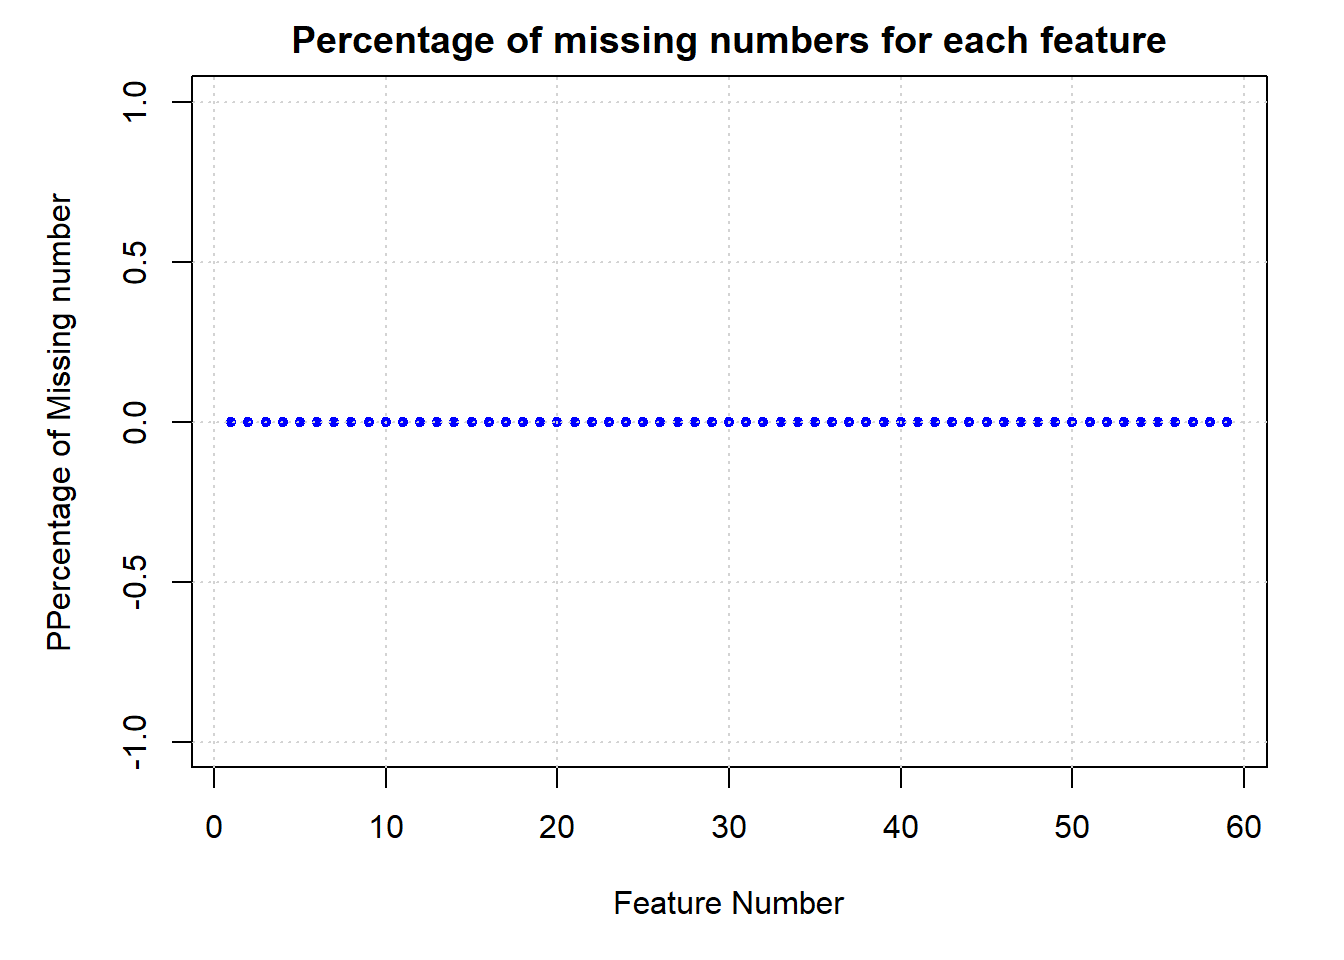
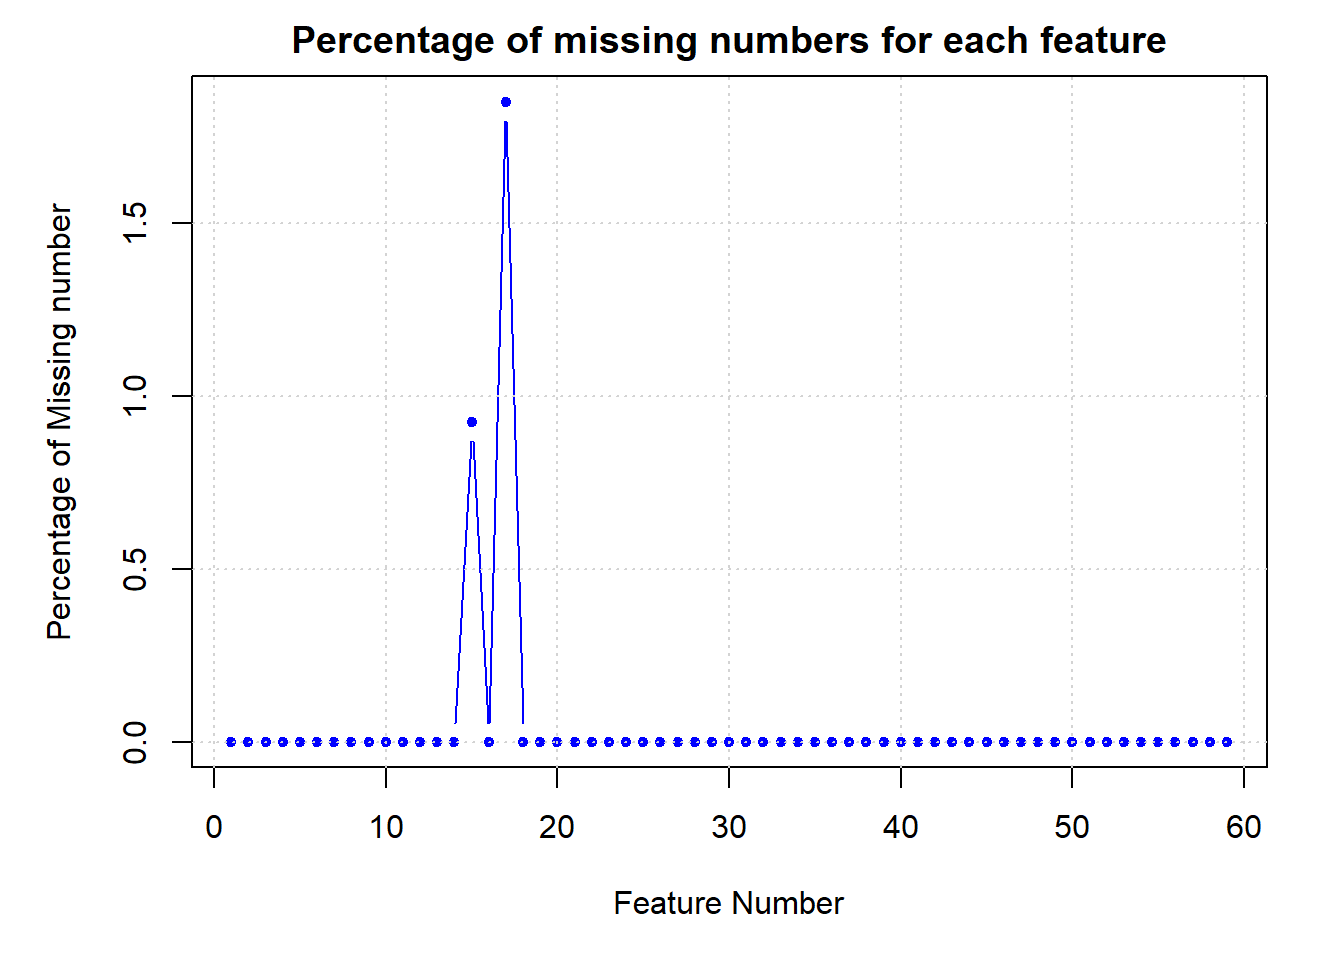
commit graph changes

diff --git a/docs/data.html b/docs/data.html
@@ -213,7 +213,7 @@ pre > code.sourceCode > span > a:first-child::before { text-decoration: underlin
 <div class="cell">
 <details>
 <summary>Code</summary>
-<div class="sourceCode cell-code" id="cb1"><pre class="sourceCode r code-with-copy"><code class="sourceCode r"><span id="cb1-1"><a href="#cb1-1" aria-hidden="true" tabindex="-1"></a><span class="co"># Install and load necessary libraries (if not installed)</span></span>
+<div class="sourceCode cell-code" id="cb1"><pre class="sourceCode r code-with-copy"><code class="sourceCode r"><span id="cb1-1"><a href="#cb1-1" aria-hidden="true" tabindex="-1"></a><span class="co">#Install and load necessary libraries (if not installed)</span></span>
 <span id="cb1-2"><a href="#cb1-2" aria-hidden="true" tabindex="-1"></a><span class="co"># install.packages("VIM")</span></span>
 <span id="cb1-3"><a href="#cb1-3" aria-hidden="true" tabindex="-1"></a><span class="fu">library</span>(VIM)</span></code><button title="Copy to Clipboard" class="code-copy-button"><i class="bi"></i></button></pre></div>
 </details>
@@ -240,67 +240,99 @@ Attaching package: 'VIM'</code></pre>
 </div>
 <details>
 <summary>Code</summary>
-<div class="sourceCode cell-code" id="cb8"><pre class="sourceCode r code-with-copy"><code class="sourceCode r"><span id="cb8-1"><a href="#cb8-1" aria-hidden="true" tabindex="-1"></a><span class="fu">library</span>(openxlsx)  </span>
-<span id="cb8-2"><a href="#cb8-2" aria-hidden="true" tabindex="-1"></a><span class="co"># Read Excel file</span></span>
-<span id="cb8-3"><a href="#cb8-3" aria-hidden="true" tabindex="-1"></a>data <span class="ot">&lt;-</span> <span class="fu">read.csv</span>(<span class="st">'./data/GYTS4.csv'</span>)</span>
-<span id="cb8-4"><a href="#cb8-4" aria-hidden="true" tabindex="-1"></a></span>
-<span id="cb8-5"><a href="#cb8-5" aria-hidden="true" tabindex="-1"></a><span class="co"># Replace "--" with NA in numeric columns</span></span>
-<span id="cb8-6"><a href="#cb8-6" aria-hidden="true" tabindex="-1"></a>numeric_columns <span class="ot">&lt;-</span> <span class="fu">sapply</span>(data, is.numeric)</span>
-<span id="cb8-7"><a href="#cb8-7" aria-hidden="true" tabindex="-1"></a>data[, numeric_columns <span class="sc">==</span> <span class="st">"--"</span> ]<span class="ot">&lt;-</span> <span class="cn">NA</span></span>
-<span id="cb8-8"><a href="#cb8-8" aria-hidden="true" tabindex="-1"></a></span>
-<span id="cb8-9"><a href="#cb8-9" aria-hidden="true" tabindex="-1"></a><span class="co"># Calculate the percentage of missing values in each variable</span></span>
-<span id="cb8-10"><a href="#cb8-10" aria-hidden="true" tabindex="-1"></a>missing_proportion <span class="ot">&lt;-</span> <span class="fu">colMeans</span>(<span class="fu">is.na</span>(data) <span class="sc">*</span> <span class="dv">100</span>)</span>
-<span id="cb8-11"><a href="#cb8-11" aria-hidden="true" tabindex="-1"></a></span>
-<span id="cb8-12"><a href="#cb8-12" aria-hidden="true" tabindex="-1"></a><span class="co"># Set graphical parameters for larger plot</span></span>
-<span id="cb8-13"><a href="#cb8-13" aria-hidden="true" tabindex="-1"></a><span class="fu">par</span>(<span class="at">mfrow =</span> <span class="fu">c</span>(<span class="dv">1</span>, <span class="dv">1</span>), <span class="at">mar =</span> <span class="fu">c</span>(<span class="dv">5</span>, <span class="dv">5</span>, <span class="dv">2</span>, <span class="dv">2</span>)) </span>
-<span id="cb8-14"><a href="#cb8-14" aria-hidden="true" tabindex="-1"></a></span>
-<span id="cb8-15"><a href="#cb8-15" aria-hidden="true" tabindex="-1"></a><span class="co"># Plot line graph with fewer x-axis ticks</span></span>
-<span id="cb8-16"><a href="#cb8-16" aria-hidden="true" tabindex="-1"></a><span class="fu">plot</span>(missing_proportion, <span class="at">type =</span> <span class="st">"b"</span>, <span class="at">pch =</span> <span class="dv">20</span>,</span>
-<span id="cb8-17"><a href="#cb8-17" aria-hidden="true" tabindex="-1"></a>     <span class="at">main =</span> <span class="st">"Percentage of missing numbers for each feature"</span>,</span>
-<span id="cb8-18"><a href="#cb8-18" aria-hidden="true" tabindex="-1"></a>     <span class="at">xlab =</span> <span class="st">"Feature Number"</span>,</span>
-<span id="cb8-19"><a href="#cb8-19" aria-hidden="true" tabindex="-1"></a>     <span class="at">ylab =</span> <span class="st">"PPercentage of Missing number"</span>,</span>
-<span id="cb8-20"><a href="#cb8-20" aria-hidden="true" tabindex="-1"></a>     <span class="at">col =</span> <span class="st">"blue"</span>)</span>
-<span id="cb8-21"><a href="#cb8-21" aria-hidden="true" tabindex="-1"></a><span class="co"># Add grid lines</span></span>
-<span id="cb8-22"><a href="#cb8-22" aria-hidden="true" tabindex="-1"></a><span class="fu">grid</span>()</span></code><button title="Copy to Clipboard" class="code-copy-button"><i class="bi"></i></button></pre></div>
+<div class="sourceCode cell-code" id="cb8"><pre class="sourceCode r code-with-copy"><code class="sourceCode r"><span id="cb8-1"><a href="#cb8-1" aria-hidden="true" tabindex="-1"></a><span class="fu">options</span>(<span class="at">repos =</span> <span class="fu">c</span>(<span class="at">CRAN =</span> <span class="st">"https://cloud.r-project.org"</span>))</span>
+<span id="cb8-2"><a href="#cb8-2" aria-hidden="true" tabindex="-1"></a><span class="fu">install.packages</span>(<span class="st">"openxlsx"</span>)</span></code><button title="Copy to Clipboard" class="code-copy-button"><i class="bi"></i></button></pre></div>
+</details>
+<div class="cell-output cell-output-stderr">
+<pre><code>Installing package into 'C:/Users/Ishita Pundir/Documents/R/win-library/4.1'
+(as 'lib' is unspecified)</code></pre>
+</div>
+<div class="cell-output cell-output-stdout">
+<pre><code>package 'openxlsx' successfully unpacked and MD5 sums checked</code></pre>
+</div>
+<div class="cell-output cell-output-stderr">
+<pre><code>Warning: cannot remove prior installation of package 'openxlsx'</code></pre>
+</div>
+<div class="cell-output cell-output-stderr">
+<pre><code>Warning in file.copy(savedcopy, lib, recursive = TRUE): problem copying
+C:\Users\Ishita
+Pundir\Documents\R\win-library\4.1\00LOCK\openxlsx\libs\x64\openxlsx.dll to
+C:\Users\Ishita
+Pundir\Documents\R\win-library\4.1\openxlsx\libs\x64\openxlsx.dll: Permission
+denied</code></pre>
+</div>
+<div class="cell-output cell-output-stderr">
+<pre><code>Warning: restored 'openxlsx'</code></pre>
+</div>
+<div class="cell-output cell-output-stdout">
+<pre><code>
+The downloaded binary packages are in
+    C:\Temp\Rtmp6HOVl6\downloaded_packages</code></pre>
+</div>
+<details>
+<summary>Code</summary>
+<div class="sourceCode cell-code" id="cb15"><pre class="sourceCode r code-with-copy"><code class="sourceCode r"><span id="cb15-1"><a href="#cb15-1" aria-hidden="true" tabindex="-1"></a><span class="fu">library</span>(openxlsx)  </span>
+<span id="cb15-2"><a href="#cb15-2" aria-hidden="true" tabindex="-1"></a></span>
+<span id="cb15-3"><a href="#cb15-3" aria-hidden="true" tabindex="-1"></a><span class="co"># Read Excel file</span></span>
+<span id="cb15-4"><a href="#cb15-4" aria-hidden="true" tabindex="-1"></a>data <span class="ot">&lt;-</span> <span class="fu">read.xlsx</span>(<span class="st">'./data/EDAV.xlsx'</span>)</span>
+<span id="cb15-5"><a href="#cb15-5" aria-hidden="true" tabindex="-1"></a></span>
+<span id="cb15-6"><a href="#cb15-6" aria-hidden="true" tabindex="-1"></a><span class="co"># Replace "--" with NA in numeric columns</span></span>
+<span id="cb15-7"><a href="#cb15-7" aria-hidden="true" tabindex="-1"></a>numeric_columns <span class="ot">&lt;-</span> <span class="fu">sapply</span>(data, is.numeric)</span>
+<span id="cb15-8"><a href="#cb15-8" aria-hidden="true" tabindex="-1"></a>data[, numeric_columns <span class="sc">==</span> <span class="st">"--"</span> ]<span class="ot">&lt;-</span> <span class="cn">NA</span></span>
+<span id="cb15-9"><a href="#cb15-9" aria-hidden="true" tabindex="-1"></a></span>
+<span id="cb15-10"><a href="#cb15-10" aria-hidden="true" tabindex="-1"></a><span class="co"># Calculate the percentage of missing values in each variable</span></span>
+<span id="cb15-11"><a href="#cb15-11" aria-hidden="true" tabindex="-1"></a>missing_proportion <span class="ot">&lt;-</span> <span class="fu">colMeans</span>(<span class="fu">is.na</span>(data) <span class="sc">*</span> <span class="dv">100</span>)</span>
+<span id="cb15-12"><a href="#cb15-12" aria-hidden="true" tabindex="-1"></a></span>
+<span id="cb15-13"><a href="#cb15-13" aria-hidden="true" tabindex="-1"></a><span class="co"># Set graphical parameters for larger plot</span></span>
+<span id="cb15-14"><a href="#cb15-14" aria-hidden="true" tabindex="-1"></a><span class="fu">par</span>(<span class="at">mfrow =</span> <span class="fu">c</span>(<span class="dv">1</span>, <span class="dv">1</span>), <span class="at">mar =</span> <span class="fu">c</span>(<span class="dv">5</span>, <span class="dv">5</span>, <span class="dv">2</span>, <span class="dv">2</span>))</span>
+<span id="cb15-15"><a href="#cb15-15" aria-hidden="true" tabindex="-1"></a></span>
+<span id="cb15-16"><a href="#cb15-16" aria-hidden="true" tabindex="-1"></a><span class="co"># Plot line graph with fewer x-axis ticks</span></span>
+<span id="cb15-17"><a href="#cb15-17" aria-hidden="true" tabindex="-1"></a><span class="fu">plot</span>(missing_proportion, <span class="at">type =</span> <span class="st">"b"</span>, <span class="at">pch =</span> <span class="dv">20</span>,</span>
+<span id="cb15-18"><a href="#cb15-18" aria-hidden="true" tabindex="-1"></a>     <span class="at">main =</span> <span class="st">"Percentage of missing numbers for each feature"</span>,</span>
+<span id="cb15-19"><a href="#cb15-19" aria-hidden="true" tabindex="-1"></a>     <span class="at">xlab =</span> <span class="st">"Feature Number"</span>,</span>
+<span id="cb15-20"><a href="#cb15-20" aria-hidden="true" tabindex="-1"></a>     <span class="at">ylab =</span> <span class="st">"Percentage of Missing number"</span>,</span>
+<span id="cb15-21"><a href="#cb15-21" aria-hidden="true" tabindex="-1"></a>     <span class="at">col =</span> <span class="st">"blue"</span>)</span>
+<span id="cb15-22"><a href="#cb15-22" aria-hidden="true" tabindex="-1"></a><span class="co"># Add grid lines</span></span>
+<span id="cb15-23"><a href="#cb15-23" aria-hidden="true" tabindex="-1"></a><span class="fu">grid</span>()</span></code><button title="Copy to Clipboard" class="code-copy-button"><i class="bi"></i></button></pre></div>
 </details>
 <div class="cell-output-display">
 <p><img src="data_files/figure-html/unnamed-chunk-1-1.png" class="img-fluid" width="672"></p>
 </div>
+</div>
+<div class="cell">
 <details>
 <summary>Code</summary>
-<div class="sourceCode cell-code" id="cb9"><pre class="sourceCode r code-with-copy"><code class="sourceCode r"><span id="cb9-1"><a href="#cb9-1" aria-hidden="true" tabindex="-1"></a><span class="fu">library</span>(redav)</span>
-<span id="cb9-2"><a href="#cb9-2" aria-hidden="true" tabindex="-1"></a><span class="fu">library</span>(ggplot2)</span>
-<span id="cb9-3"><a href="#cb9-3" aria-hidden="true" tabindex="-1"></a><span class="fu">library</span>(tidyverse)</span></code><button title="Copy to Clipboard" class="code-copy-button"><i class="bi"></i></button></pre></div>
+<div class="sourceCode cell-code" id="cb16"><pre class="sourceCode r code-with-copy"><code class="sourceCode r"><span id="cb16-1"><a href="#cb16-1" aria-hidden="true" tabindex="-1"></a><span class="fu">library</span>(redav)</span>
+<span id="cb16-2"><a href="#cb16-2" aria-hidden="true" tabindex="-1"></a><span class="fu">library</span>(ggplot2)</span>
+<span id="cb16-3"><a href="#cb16-3" aria-hidden="true" tabindex="-1"></a><span class="fu">library</span>(tidyverse)</span></code><button title="Copy to Clipboard" class="code-copy-button"><i class="bi"></i></button></pre></div>
 </details>
 <div class="cell-output cell-output-stderr">
 <pre><code>-- Attaching core tidyverse packages ------------------------ tidyverse 2.0.0 --
 v dplyr     1.1.2     v readr     2.1.4
 v forcats   1.0.0     v stringr   1.5.0
 v lubridate 1.9.2     v tibble    3.2.1
-v purrr     1.0.1     v tidyr     1.3.0</code></pre>
-</div>
-<div class="cell-output cell-output-stderr">
-<pre><code>-- Conflicts ------------------------------------------ tidyverse_conflicts() --
+v purrr     1.0.1     v tidyr     1.3.0
+-- Conflicts ------------------------------------------ tidyverse_conflicts() --
 x dplyr::filter() masks stats::filter()
 x dplyr::lag()    masks stats::lag()
 i Use the conflicted package (&lt;http://conflicted.r-lib.org/&gt;) to force all conflicts to become errors</code></pre>
 </div>
 <details>
 <summary>Code</summary>
-<div class="sourceCode cell-code" id="cb12"><pre class="sourceCode r code-with-copy"><code class="sourceCode r"><span id="cb12-1"><a href="#cb12-1" aria-hidden="true" tabindex="-1"></a>tidycars <span class="ot">&lt;-</span> data <span class="sc">%&gt;%</span> </span>
-<span id="cb12-2"><a href="#cb12-2" aria-hidden="true" tabindex="-1"></a>  <span class="fu">rownames_to_column</span>(<span class="st">"id"</span>) <span class="sc">%&gt;%</span> </span>
-<span id="cb12-3"><a href="#cb12-3" aria-hidden="true" tabindex="-1"></a>  <span class="fu">gather</span>(key, value, <span class="sc">-</span>id) <span class="sc">%&gt;%</span> </span>
-<span id="cb12-4"><a href="#cb12-4" aria-hidden="true" tabindex="-1"></a>  <span class="fu">mutate</span>(<span class="at">missing =</span> <span class="fu">ifelse</span>(<span class="fu">is.na</span>(value), <span class="st">"yes"</span>, <span class="st">"no"</span>))</span>
-<span id="cb12-5"><a href="#cb12-5" aria-hidden="true" tabindex="-1"></a></span>
-<span id="cb12-6"><a href="#cb12-6" aria-hidden="true" tabindex="-1"></a><span class="fu">ggplot</span>(tidycars, <span class="fu">aes</span>(<span class="at">x =</span> key, <span class="at">y =</span> <span class="fu">fct_rev</span>(id), <span class="at">fill =</span> missing)) <span class="sc">+</span></span>
-<span id="cb12-7"><a href="#cb12-7" aria-hidden="true" tabindex="-1"></a>  <span class="fu">geom_tile</span>(<span class="at">color =</span> <span class="st">"white"</span>) <span class="sc">+</span> </span>
-<span id="cb12-8"><a href="#cb12-8" aria-hidden="true" tabindex="-1"></a>  <span class="fu">ggtitle</span>(<span class="st">"mtcars with NAs added"</span>) <span class="sc">+</span></span>
-<span id="cb12-9"><a href="#cb12-9" aria-hidden="true" tabindex="-1"></a>  <span class="fu">ylab</span>(<span class="st">''</span>) <span class="sc">+</span> </span>
-<span id="cb12-10"><a href="#cb12-10" aria-hidden="true" tabindex="-1"></a>  <span class="fu">scale_fill_viridis_d</span>() <span class="sc">+</span> <span class="co"># discrete scale</span></span>
-<span id="cb12-11"><a href="#cb12-11" aria-hidden="true" tabindex="-1"></a>  <span class="fu">theme_bw</span>()</span></code><button title="Copy to Clipboard" class="code-copy-button"><i class="bi"></i></button></pre></div>
+<div class="sourceCode cell-code" id="cb18"><pre class="sourceCode r code-with-copy"><code class="sourceCode r"><span id="cb18-1"><a href="#cb18-1" aria-hidden="true" tabindex="-1"></a>tidycars <span class="ot">&lt;-</span> data <span class="sc">%&gt;%</span> </span>
+<span id="cb18-2"><a href="#cb18-2" aria-hidden="true" tabindex="-1"></a>  <span class="fu">rownames_to_column</span>(<span class="st">"id"</span>) <span class="sc">%&gt;%</span> </span>
+<span id="cb18-3"><a href="#cb18-3" aria-hidden="true" tabindex="-1"></a>  <span class="fu">gather</span>(key, value, <span class="sc">-</span>id) <span class="sc">%&gt;%</span> </span>
+<span id="cb18-4"><a href="#cb18-4" aria-hidden="true" tabindex="-1"></a>  <span class="fu">mutate</span>(<span class="at">missing =</span> <span class="fu">ifelse</span>(<span class="fu">is.na</span>(value), <span class="st">"yes"</span>, <span class="st">"no"</span>))</span>
+<span id="cb18-5"><a href="#cb18-5" aria-hidden="true" tabindex="-1"></a></span>
+<span id="cb18-6"><a href="#cb18-6" aria-hidden="true" tabindex="-1"></a><span class="fu">ggplot</span>(tidycars, <span class="fu">aes</span>(<span class="at">x =</span> key, <span class="at">y =</span> <span class="fu">fct_rev</span>(id), <span class="at">fill =</span> missing)) <span class="sc">+</span></span>
+<span id="cb18-7"><a href="#cb18-7" aria-hidden="true" tabindex="-1"></a>  <span class="fu">geom_tile</span>(<span class="at">color =</span> <span class="st">"white"</span>) <span class="sc">+</span> </span>
+<span id="cb18-8"><a href="#cb18-8" aria-hidden="true" tabindex="-1"></a>  <span class="fu">ggtitle</span>(<span class="st">"mtcars with NAs added"</span>) <span class="sc">+</span></span>
+<span id="cb18-9"><a href="#cb18-9" aria-hidden="true" tabindex="-1"></a>  <span class="fu">ylab</span>(<span class="st">''</span>) <span class="sc">+</span> </span>
+<span id="cb18-10"><a href="#cb18-10" aria-hidden="true" tabindex="-1"></a>  <span class="fu">scale_fill_viridis_d</span>() <span class="sc">+</span> <span class="co"># discrete scale</span></span>
+<span id="cb18-11"><a href="#cb18-11" aria-hidden="true" tabindex="-1"></a>  <span class="fu">theme_bw</span>()</span></code><button title="Copy to Clipboard" class="code-copy-button"><i class="bi"></i></button></pre></div>
 </details>
 <div class="cell-output-display">
-<p><img src="data_files/figure-html/unnamed-chunk-1-2.png" class="img-fluid" width="672"></p>
+<p><img src="data_files/figure-html/unnamed-chunk-2-1.png" class="img-fluid" width="672"></p>
 </div>
 </div>
 
